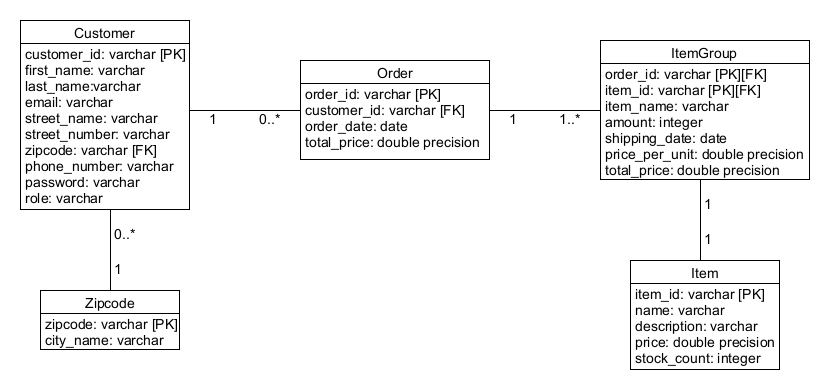
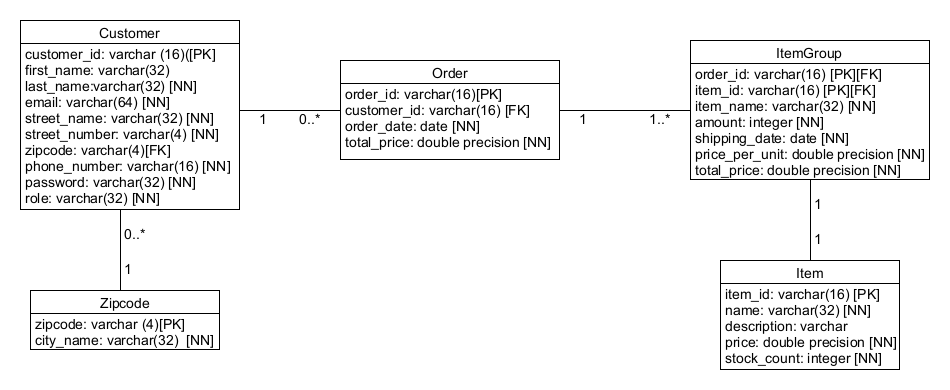
initial creation of database with flyway

diff --git a/domain/src/main/java/com/switchfully/eurder/domain/customer/CustomerRepository.java b/domain/src/main/java/com/switchfully/eurder/domain/customer/CustomerRepository.java
@@ -17,7 +17,7 @@ public class CustomerRepository {
 
     public CustomerRepository() {
         this.customerRepository = new HashMap<>();
-        fillCustomerRepository();
+//        fillCustomerRepository();
     }
 
     public Collection<Customer> getAllCustomers() {
@@ -41,23 +41,25 @@ public class CustomerRepository {
                 .findFirst();
     }
 
-    private void fillCustomerRepository() {
-        Customer admin = new CustomerBuilder()
-                .setLastname("admin")
-                .setEmailAddress("admin@eurder.com")
-                .setPassword("password")
-                .setAddress(new AddressBuilder()
-                        .setPostalCode("0000")
-                        .setCityName("EURDER")
-                        .build())
-                .setRole(Role.ADMIN)
-                .build();
-        customerRepository.put(admin.getCustomerID(), admin);
-        Customer customer1 = new Customer("firstname1", "lastname1", "user1@test.be", new Address("street", "1", "1111", "city1"), new PhoneNumber(CountryCode.BEL, "123 45 67 89"), "password", Role.CUSTOMER);
-        Customer customer2 = new Customer("firstname2", "lastname2", "user2@test.be", new Address("street", "1", "1111", "city2"), new PhoneNumber(CountryCode.BEL, "123 45 67 89"), "password", Role.CUSTOMER);
-        Customer customer3 = new Customer("firstname3", "lastname3", "user3@test.be", new Address("street", "1", "1111", "city3"), new PhoneNumber(CountryCode.BEL, "123 45 67 89"), "password", Role.CUSTOMER);
-        customerRepository.put(customer1.getCustomerID(), customer1);
-        customerRepository.put(customer2.getCustomerID(), customer2);
-        customerRepository.put(customer3.getCustomerID(), customer3);
-    }
+//    private void fillCustomerRepository() {
+//        Customer admin = new CustomerBuilder()
+//                .setLastname("admin")
+//                .setEmailAddress("admin@eurder.com")
+//                .setPassword("password")
+//                .setAddress(new AddressBuilder()
+//                        .setPostalCode("0000")
+//                        .setStreetName("some street")
+//                        .setStreetNumber("1")
+//                        .setCityName("EURDER")
+//                        .build())
+//                .setRole(Role.ADMIN)
+//                .build();
+//        customerRepository.put(admin.getCustomerID(), admin);
+//        Customer customer1 = new Customer("firstname1", "lastname1", "user1@test.be", new Address("street", "1", "1111", "city1"), new PhoneNumber(CountryCode.BEL, "123 45 67 89"), "password", Role.CUSTOMER);
+//        Customer customer2 = new Customer("firstname2", "lastname2", "user2@test.be", new Address("street", "1", "1111", "city2"), new PhoneNumber(CountryCode.BEL, "123 45 67 89"), "password", Role.CUSTOMER);
+//        Customer customer3 = new Customer("firstname3", "lastname3", "user3@test.be", new Address("street", "1", "1111", "city3"), new PhoneNumber(CountryCode.BEL, "123 45 67 89"), "password", Role.CUSTOMER);
+//        customerRepository.put(customer1.getCustomerID(), customer1);
+//        customerRepository.put(customer2.getCustomerID(), customer2);
+//        customerRepository.put(customer3.getCustomerID(), customer3);
+//    }
 }

diff --git a/domain/src/main/java/com/switchfully/eurder/domain/address/Address.java b/domain/src/main/java/com/switchfully/eurder/domain/address/Address.java
@@ -11,10 +11,10 @@ public class Address {
     private final String cityName;
 
     public Address(String streetName, String streetNumber, String postalCode, String cityName) {
-        this.streetName = streetName;
-        this.streetNumber = streetNumber;
+        this.streetName = validateStringValueForNotNullOrEmpty(streetName);
+        this.streetNumber = validateStringValueForNotNullOrEmpty(streetNumber);
         this.postalCode = validatePostalCode(postalCode);
-        this.cityName = validateCityName(cityName);
+        this.cityName = validateStringValueForNotNullOrEmpty(cityName);
     }
 
     public String validatePostalCode(String postalCode) {
@@ -25,11 +25,11 @@ public class Address {
         return postalCode;
     }
 
-    public String validateCityName(String cityName) {
-        if (cityName == null || cityName.trim().length() < 2) {
-            throw new IllegalArgumentException("The provided city is not valid");
+    public String validateStringValueForNotNullOrEmpty(String value) {
+        if (value == null || value.trim().length() < 2) {
+            throw new IllegalArgumentException("The provided city, street name or number is not valid");
         }
-        return cityName;
+        return value;
     }
 
     public String getFullAddressAsString() {
